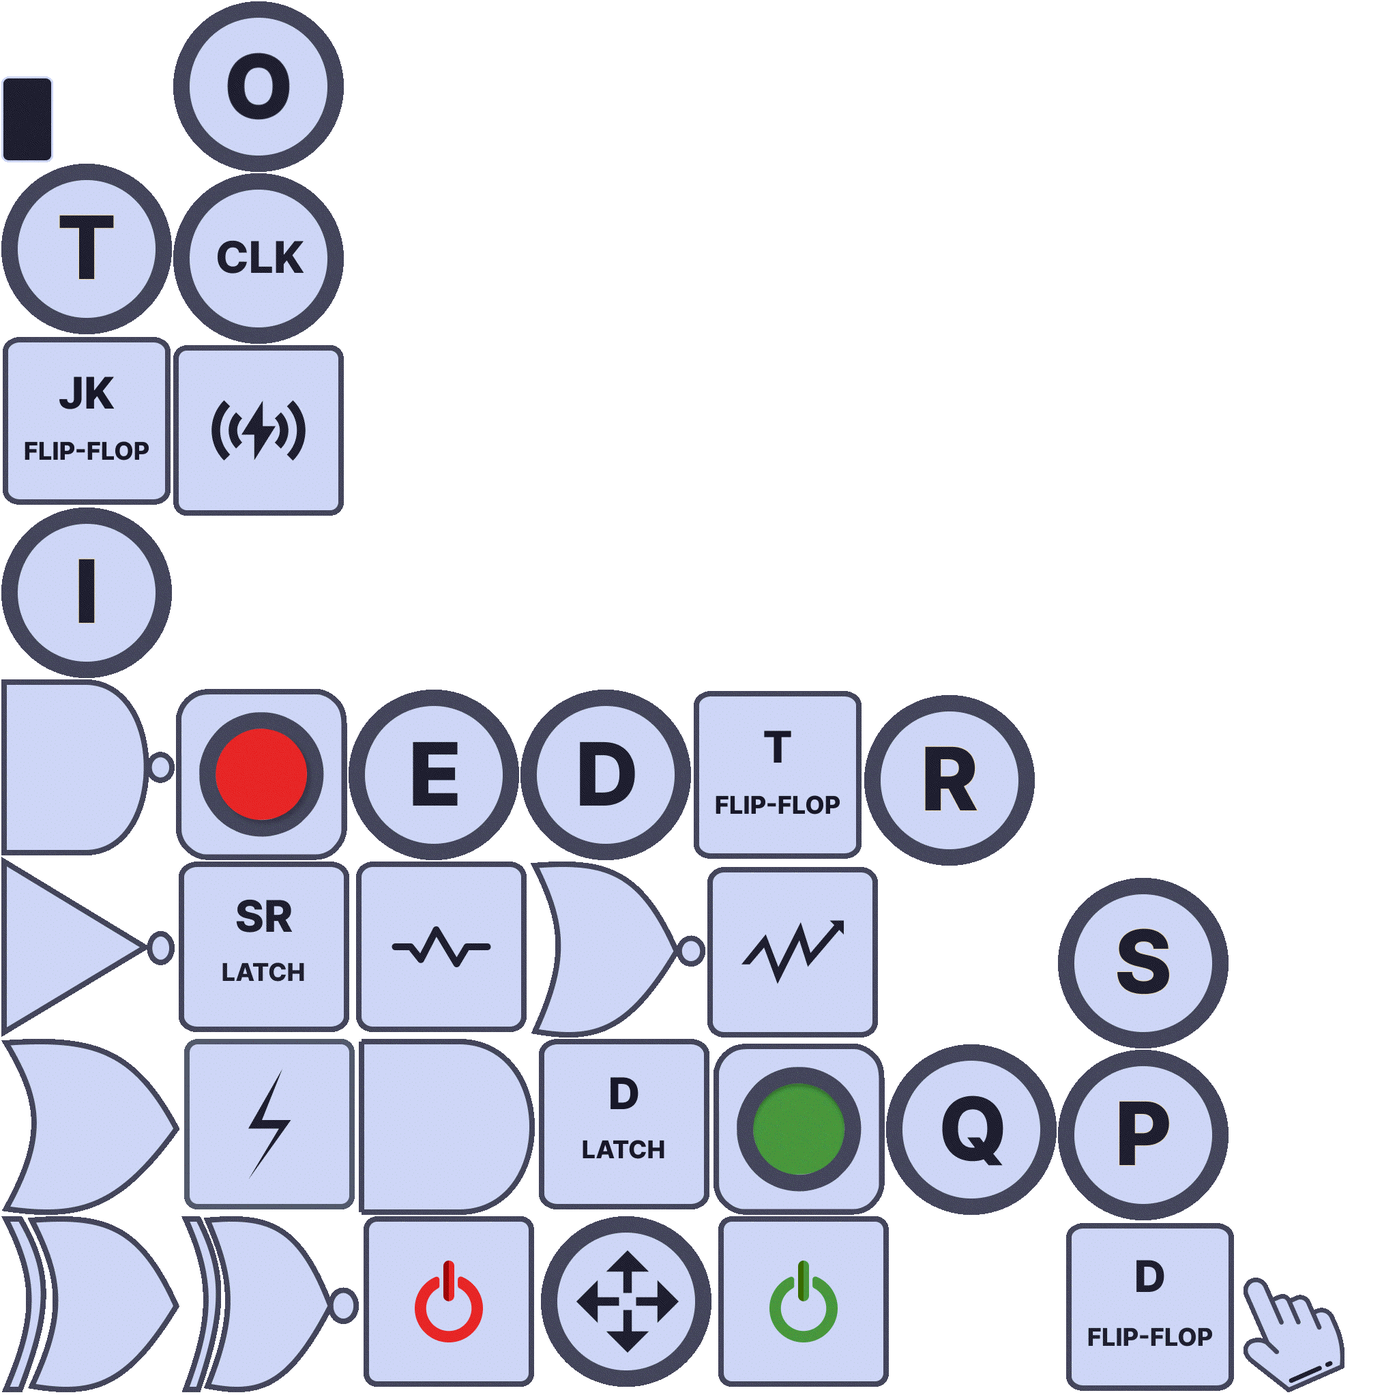
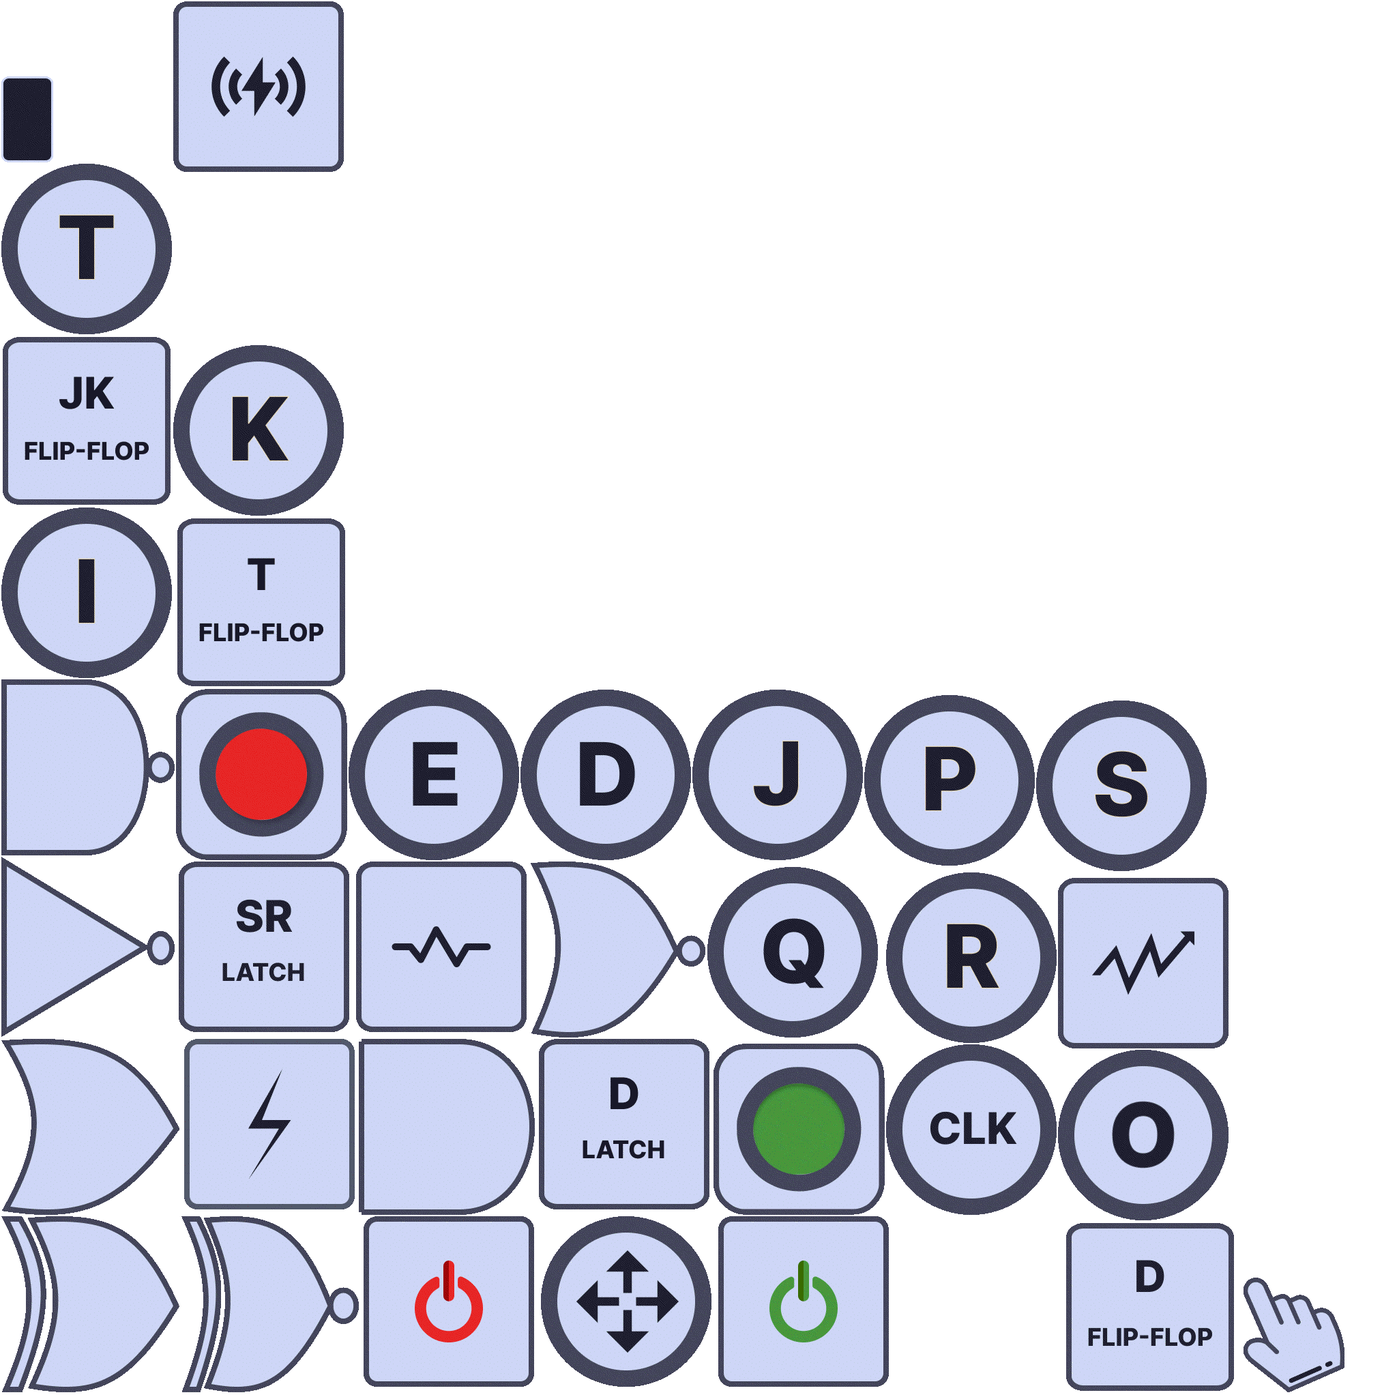
improved UI, added edit text, added jk flipflop

diff --git a/android/src/main/java/org/engine/simulogic/android/circuits/components/flipflops/CJKFlipFlop.kt b/android/src/main/java/org/engine/simulogic/android/circuits/components/flipflops/CJKFlipFlop.kt
@@ -24,7 +24,7 @@ class CJKFlipFlop(x:Float, y:Float, rotationDirection:Int, private val scene: Pl
         this.rotationDirection = rotationDirection
         sprite = Sprite(spriteRegion).apply {
             setOrigin(x , y)
-            setSize(CDefaults.latchWidth, CDefaults.latchHeight)
+            setSize(CDefaults.latchWidth* 1.5f , CDefaults.latchHeight* 1.5f )
             setOriginCenter()
             type = CTypes.JK_FLIP_FLOP
             when(rotationDirection){
@@ -41,13 +41,13 @@ class CJKFlipFlop(x:Float, y:Float, rotationDirection:Int, private val scene: Pl
                     rotation = 0f
                 }
             }
-            setPosition(x - CDefaults.latchWidth / 2f,y - CDefaults.latchHeight / 2f)
+            setPosition(x - CDefaults.latchWidth * 1.5f / 2f,y - CDefaults.latchHeight * 1.5f / 2f)
         }
 
         signals.add(CSignal(x + sprite.width * 0.8125f, y ,CTypes.Q_SIGNAL_OUT,0, scene))
-        signals.add(CSignal(x - sprite.width * 0.8125f, y + CDefaults.gateHeight / 2f - CDefaults.gateHeight * 0.1875f ,CTypes.D_SIGNAL_IN, 1, scene))
-        signals.add(CSignal(x - sprite.width * 0.8125f, y - CDefaults.gateHeight / 2f +  CDefaults.gateHeight * 0.1875f ,CTypes.E_SIGNAL_IN, 2, scene))
-
+        signals.add(CSignal(x - sprite.width * 0.8125f, y + sprite.height/ 2f - sprite.height * 0.1875f ,CTypes.J_SIGNAL_IN, 1, scene))
+        signals.add(CSignal(x - sprite.width * 0.8125f, y - sprite.height / 2f +  sprite.height * 0.1875f ,CTypes.K_SIGNAL_IN, 2, scene))
+        signals.add(CSignal(x - sprite.width * 0.8125f, y ,CTypes.CLK_SIGNAL_IN, 3, scene))
         signals.forEach {
             attachChild(it)
         }
@@ -69,6 +69,9 @@ class CJKFlipFlop(x:Float, y:Float, rotationDirection:Int, private val scene: Pl
             getChildAt(2).getPosition()?.also { outputPosition ->
                 lines.add(CLine(outputPosition.x,outputPosition.y,getPosition().x,outputPosition.y,lineWidth))
             }
+            getChildAt(3).getPosition()?.also { outputPosition ->
+                lines.add(CLine(outputPosition.x,outputPosition.y,getPosition().x,outputPosition.y,lineWidth))
+            }
             lines.forEach {
                 layer.attachChild(it)
             }
@@ -77,12 +80,25 @@ class CJKFlipFlop(x:Float, y:Float, rotationDirection:Int, private val scene: Pl
 
     override fun execute() {
         val outputQ = signals[0]
-        val inputD = signals[1]
-        val inputE = signals[2]
-        val hasEdge = previousEdge != inputE.value
-        if(hasEdge){
-            outputQ.value = inputD.value
-            previousEdge = inputE.value
+        val inputJ = signals[1]
+        val inputK = signals[2]
+        val inputCLK = signals[3]
+        val hasEdge = previousEdge != inputCLK.value
+        if(hasEdge && inputCLK.value == SIGNAL_ACTIVE){
+            when {
+                inputJ.value == SIGNAL_ACTIVE && inputK.value == SIGNAL_INACTIVE -> {
+                    outputQ.value = SIGNAL_ACTIVE
+                }
+                inputJ.value == SIGNAL_INACTIVE && inputK.value == SIGNAL_ACTIVE -> {
+                    outputQ.value = SIGNAL_INACTIVE
+                }
+                inputJ.value == SIGNAL_ACTIVE && inputK.value == SIGNAL_ACTIVE -> {
+                    outputQ.value = if (outputQ.value == SIGNAL_ACTIVE) SIGNAL_INACTIVE else SIGNAL_ACTIVE
+                }
+            }
+            previousEdge = inputCLK.value
+        }else{
+            previousEdge = inputCLK.value
         }
     }
 
@@ -118,8 +134,9 @@ class CJKFlipFlop(x:Float, y:Float, rotationDirection:Int, private val scene: Pl
         when(rotationDirection){
             ROTATE_RIGHT->{
                 signals[0].updatePosition(getPosition().x + sprite.width * 0.8125f, getPosition().y)
-                signals[1].updatePosition(getPosition().x - sprite.width * 0.8125f, getPosition().y + sprite.height / 2f - sprite.height * 0.1875f)
-                signals[2].updatePosition(getPosition().x - sprite.width * 0.8125f, getPosition().y - sprite.height / 2f +  sprite.height * 0.1875f)
+                signals[1].updatePosition(getPosition().x - sprite.width * 0.8125f, getPosition().y + sprite.height / 2f - sprite.height * 0.1f)
+                signals[2].updatePosition(getPosition().x - sprite.width * 0.8125f, getPosition().y - sprite.height / 2f +  sprite.height * 0.1f)
+                signals[3].updatePosition(getPosition().x - sprite.width * 0.8125f, getPosition().y)
                 getChildAt(0).getPosition()?.also { outputPosition ->
                     lines[0].updatePosition(outputPosition.x,outputPosition.y,getPosition().x,getPosition().y)
                 }
@@ -128,13 +145,17 @@ class CJKFlipFlop(x:Float, y:Float, rotationDirection:Int, private val scene: Pl
                 }
                 getChildAt(2).getPosition()?.also { outputPosition ->
                     lines[2].updatePosition(outputPosition.x,outputPosition.y,getPosition().x,outputPosition.y)
+                }
+                getChildAt(3).getPosition()?.also { outputPosition ->
+                    lines[3].updatePosition(outputPosition.x,outputPosition.y,getPosition().x,outputPosition.y)
                 }
             }
 
             ROTATE_LEFT->{
                 signals[0].updatePosition(getPosition().x - sprite.width * 0.8125f, getPosition().y)
-                signals[1].updatePosition(getPosition().x + sprite.width * 0.8125f, getPosition().y + sprite.height / 2f - sprite.height * 0.1875f)
-                signals[2].updatePosition(getPosition().x + sprite.width * 0.8125f, getPosition().y - sprite.height / 2f + sprite.height * 0.1875f)
+                signals[1].updatePosition(getPosition().x + sprite.width * 0.8125f, getPosition().y + sprite.height / 2f - sprite.height * 0.1f)
+                signals[2].updatePosition(getPosition().x + sprite.width * 0.8125f, getPosition().y - sprite.height / 2f + sprite.height * 0.1f)
+                signals[3].updatePosition(getPosition().x + sprite.width * 0.8125f, getPosition().y)
                 getChildAt(0).getPosition()?.also { outputPosition ->
                     lines[0].updatePosition(outputPosition.x,outputPosition.y,getPosition().x,getPosition().y)
                 }
@@ -144,12 +165,16 @@ class CJKFlipFlop(x:Float, y:Float, rotationDirection:Int, private val scene: Pl
                 getChildAt(2).getPosition()?.also { outputPosition ->
                     lines[2].updatePosition(outputPosition.x,outputPosition.y,getPosition().x,outputPosition.y)
                 }
+                getChildAt(3).getPosition()?.also { outputPosition ->
+                    lines[3].updatePosition(outputPosition.x,outputPosition.y,getPosition().x,outputPosition.y)
+                }
             }
 
             ROTATE_TOP->{
                 signals[0].updatePosition(getPosition().x , getPosition().y + sprite.width * 0.8125f)
-                signals[1].updatePosition(getPosition().x + sprite.height / 2f - sprite.height * 0.1875f , getPosition().y - sprite.width * 0.8125f)
-                signals[2].updatePosition(getPosition().x - sprite.height / 2f + sprite.height * 0.1875f , getPosition().y - sprite.width * 0.8125f)
+                signals[1].updatePosition(getPosition().x + sprite.height / 2f - sprite.height * 0.1f , getPosition().y - sprite.width * 0.8125f)
+                signals[2].updatePosition(getPosition().x - sprite.height / 2f + sprite.height * 0.1f , getPosition().y - sprite.width * 0.8125f)
+                signals[3].updatePosition(getPosition().x, getPosition().y - sprite.width * 0.8125f)
                 getChildAt(0).getPosition()?.also { outputPosition ->
                     lines[0].updatePosition(outputPosition.x,outputPosition.y,getPosition().x,getPosition().y)
                 }
@@ -158,13 +183,17 @@ class CJKFlipFlop(x:Float, y:Float, rotationDirection:Int, private val scene: Pl
                 }
                 getChildAt(2).getPosition()?.also { outputPosition ->
                     lines[2].updatePosition(outputPosition.x,outputPosition.y,outputPosition.x,getPosition().y)
+                }
+                getChildAt(3).getPosition()?.also { outputPosition ->
+                    lines[3].updatePosition(outputPosition.x,outputPosition.y,outputPosition.x,getPosition().y)
                 }
             }
 
             ROTATE_BOTTOM->{
                 signals[0].updatePosition(getPosition().x , getPosition().y - sprite.width * 0.8125f)
-                signals[1].updatePosition(getPosition().x + sprite.height / 2f - sprite.height * 0.1875f , getPosition().y + sprite.width * 0.8125f)
-                signals[2].updatePosition(getPosition().x - sprite.height / 2f + sprite.height * 0.1875f , getPosition().y + sprite.width * 0.8125f)
+                signals[1].updatePosition(getPosition().x + sprite.height / 2f - sprite.height * 0.1f , getPosition().y + sprite.width * 0.8125f)
+                signals[2].updatePosition(getPosition().x - sprite.height / 2f + sprite.height * 0.1f , getPosition().y + sprite.width * 0.8125f)
+                signals[3].updatePosition(getPosition().x, getPosition().y + sprite.width * 0.8125f)
                 getChildAt(0).getPosition()?.also { outputPosition ->
                     lines[0].updatePosition(outputPosition.x,outputPosition.y,getPosition().x,getPosition().y)
                 }
@@ -173,6 +202,9 @@ class CJKFlipFlop(x:Float, y:Float, rotationDirection:Int, private val scene: Pl
                 }
                 getChildAt(2).getPosition()?.also { outputPosition ->
                     lines[2].updatePosition(outputPosition.x,outputPosition.y,outputPosition.x,getPosition().y)
+                }
+                getChildAt(3).getPosition()?.also { outputPosition ->
+                    lines[3].updatePosition(outputPosition.x,outputPosition.y,outputPosition.x,getPosition().y)
                 }
             }
         }

diff --git a/android/src/main/java/org/engine/simulogic/android/circuits/logic/ConnectionManager.kt b/android/src/main/java/org/engine/simulogic/android/circuits/logic/ConnectionManager.kt
@@ -20,18 +20,23 @@ class ConnectionManager(
         validationMap[CTypes.SIGNAL_IN] = listOf(CTypes.SIGNAL_OUT, CTypes.Q_SIGNAL_OUT, CTypes.SIGNAL_RANGE_POINT)
         validationMap[CTypes.SIGNAL_OUT] =
             listOf(CTypes.SIGNAL_IN, CTypes.D_SIGNAL_IN, CTypes.E_SIGNAL_IN, CTypes.CLK_SIGNAL_IN, CTypes.T_SIGNAL_IN,
-                CTypes.S_SIGNAL_IN, CTypes.R_SIGNAL_IN)
+                CTypes.S_SIGNAL_IN, CTypes.R_SIGNAL_IN,CTypes.K_SIGNAL_IN,
+                CTypes.J_SIGNAL_IN)
         validationMap[CTypes.E_SIGNAL_IN] = listOf(CTypes.SIGNAL_OUT, CTypes.Q_SIGNAL_OUT)
         validationMap[CTypes.D_SIGNAL_IN] = listOf(CTypes.SIGNAL_OUT, CTypes.Q_SIGNAL_OUT)
         validationMap[CTypes.CLK_SIGNAL_IN] = listOf(CTypes.SIGNAL_OUT, CTypes.Q_SIGNAL_OUT)
         validationMap[CTypes.T_SIGNAL_IN] = listOf(CTypes.SIGNAL_OUT, CTypes.Q_SIGNAL_OUT)
         validationMap[CTypes.S_SIGNAL_IN] = listOf(CTypes.SIGNAL_OUT, CTypes.Q_SIGNAL_OUT)
         validationMap[CTypes.R_SIGNAL_IN] = listOf(CTypes.SIGNAL_OUT, CTypes.Q_SIGNAL_OUT)
+        validationMap[CTypes.J_SIGNAL_IN] = listOf(CTypes.SIGNAL_OUT, CTypes.Q_SIGNAL_OUT)
+        validationMap[CTypes.K_SIGNAL_IN] = listOf(CTypes.SIGNAL_OUT, CTypes.Q_SIGNAL_OUT)
         validationMap[CTypes.Q_SIGNAL_OUT] =
             listOf(CTypes.SIGNAL_IN, CTypes.D_SIGNAL_IN, CTypes.E_SIGNAL_IN, CTypes.T_SIGNAL_IN,
-                CTypes.CLK_SIGNAL_IN, CTypes.S_SIGNAL_IN, CTypes.R_SIGNAL_IN)
+                CTypes.CLK_SIGNAL_IN, CTypes.S_SIGNAL_IN, CTypes.R_SIGNAL_IN,CTypes.K_SIGNAL_IN,
+                CTypes.J_SIGNAL_IN)
         validationMap[CTypes.SIGNAL_RANGE_POINT] = listOf(CTypes.SIGNAL_IN, CTypes.E_SIGNAL_IN, CTypes.D_SIGNAL_IN,
-            CTypes.T_SIGNAL_IN, CTypes.CLK_SIGNAL_IN, CTypes.S_SIGNAL_IN, CTypes.R_SIGNAL_IN)
+            CTypes.T_SIGNAL_IN, CTypes.CLK_SIGNAL_IN, CTypes.S_SIGNAL_IN, CTypes.R_SIGNAL_IN,CTypes.K_SIGNAL_IN,
+            CTypes.J_SIGNAL_IN)
     }
 
     fun resolveConnection() {

diff --git a/android/src/main/java/org/engine/simulogic/android/views/dialogs/LabelDialog.kt b/android/src/main/java/org/engine/simulogic/android/views/dialogs/LabelDialog.kt
@@ -8,6 +8,7 @@ import android.view.LayoutInflater
 import android.view.View
 import android.view.ViewGroup
 import android.widget.ArrayAdapter
+import android.widget.TextView
 import androidx.appcompat.widget.AppCompatButton
 import androidx.appcompat.widget.AppCompatImageButton
 import androidx.appcompat.widget.ListPopupWindow
@@ -18,7 +19,7 @@ import org.engine.simulogic.R
 import org.engine.simulogic.android.views.interfaces.IDialogLabelListener
 
 
-class LabelDialog(context: Context, private val listener:IDialogLabelListener) : Dialog(context) {
+class LabelDialog(context: Context, private val listener:IDialogLabelListener,private val title:String = "Label") : Dialog(context) {
 
 
     class CustomFontAdapter(context: Context,items:Array<String>):ArrayAdapter<String>(context, 0, items){
@@ -37,6 +38,7 @@ class LabelDialog(context: Context, private val listener:IDialogLabelListener) :
         val view = layoutInflater.inflate(R.layout.dialog_label_name,null)
         val cancel = view.findViewById<AppCompatButton>(R.id.cancel)
         val save = view.findViewById<AppCompatButton>(R.id.save)
+        view.findViewById<MaterialTextView>(R.id.title).apply { text = title }
         val editTextFileName = view.findViewById<TextInputEditText>(R.id.fileName)
         val fontDropDownEditText = view.findViewById<TextInputEditText>(R.id.fontDropDown)
         val fontPopupButton = view.findViewById<AppCompatImageButton>(R.id.showPopup)

diff --git a/android/src/main/java/org/engine/simulogic/android/circuits/logic/ComponentManager.kt b/android/src/main/java/org/engine/simulogic/android/circuits/logic/ComponentManager.kt
@@ -34,6 +34,7 @@ import org.engine.simulogic.android.circuits.logic.events.EventCopyCommand
 import org.engine.simulogic.android.circuits.logic.events.EventCutCommand
 import org.engine.simulogic.android.circuits.logic.events.EventDataBusCommand
 import org.engine.simulogic.android.circuits.logic.events.EventDeleteCommand
+import org.engine.simulogic.android.circuits.logic.events.EventEditTextCommand
 import org.engine.simulogic.android.circuits.logic.events.EventFipFlopCommand
 import org.engine.simulogic.android.circuits.logic.events.EventInsertGroupCommand
 import org.engine.simulogic.android.circuits.logic.events.EventJKFlipFlopCommand
@@ -308,6 +309,11 @@ class ComponentManager(private val projectOptions: ProjectOptions,private val fo
             }
         }
     }
+
+    fun editCLabel(text:String,fontSize: Int){
+        eventBridge.insertCommand(EventEditTextCommand(text, fontSize.toFloat(), gestureListener))
+    }
+
     fun insertCLabel(text:String, fontSize:Int) {
         gestureListener.rectPointer.getPosition().also { position ->
             snapAlign.getSnapCoordinates(position).also { coordinates ->

diff --git a/android/src/main/java/org/engine/simulogic/android/circuits/components/other/CLabel.kt b/android/src/main/java/org/engine/simulogic/android/circuits/components/other/CLabel.kt
@@ -34,8 +34,8 @@ open class CLabel(private val font:BitmapFont, var fontSize:Float, var text:Stri
     override fun draw(spriteBatch: SpriteBatch) {
         font.color = color
         font.data.setScale(fontSize / CDefaults.MAX_FONT_RESOLUTION)
-        layout.setText(font,text)
         if(text.isNotEmpty()) {
+            layout.setText(font,text)
             if(selected) {
                 sprite.draw(spriteBatch)
             }
@@ -57,6 +57,14 @@ open class CLabel(private val font:BitmapFont, var fontSize:Float, var text:Stri
         sprite.setOriginCenter()
         sprite.color = CDefaults.LABEL_SELECTED_COLOR
         sprite.setPosition(position.x - sprite.width /2f,position.y - sprite.height)
+        // to make things easier self detach or attach if the anchor is available on delete, undo or redo
+        anchor?.also {
+            if(it.anchorEntity.isRemoved){
+                detachSelf()
+            }else if(!it.anchorEntity.isRemoved && isRemoved){
+                attachSelf()
+            }
+        }
     }
 
     override fun attachSelf() {

diff --git a/android/src/main/java/org/engine/simulogic/android/circuits/logic/events/EventEditTextCommand.kt b/android/src/main/java/org/engine/simulogic/android/circuits/logic/events/EventEditTextCommand.kt
@@ -1,0 +1,23 @@
+package org.engine.simulogic.android.circuits.logic.events
+import org.engine.simulogic.android.circuits.components.other.CLabel
+import org.engine.simulogic.android.circuits.tools.Command
+import org.engine.simulogic.android.events.MotionGestureListener
+
+class EventEditTextCommand (private val text: String,
+                            private val fontSize: Float,
+                            private val gestureListener: MotionGestureListener) : Command(){
+
+    override fun execute() {
+
+        gestureListener.collisionDetector.also{collisionDetector ->
+            collisionDetector.selectedItems.forEach { item ->
+                if(item.subject is CLabel){
+                    item.subject.text = text
+                    item.subject.fontSize = fontSize
+                }
+            }
+            collisionDetector.reset()
+        }
+       // TODO: add this to command history
+    }
+}

diff --git a/android/src/main/java/org/engine/simulogic/android/views/SimulationFragment.kt b/android/src/main/java/org/engine/simulogic/android/views/SimulationFragment.kt
@@ -141,6 +141,19 @@ class SimulationFragment : AndroidFragmentApplication() {
                         simulationLoop.componentManager.rotateRight()
                     }
 
+                    "EditText"->{
+                        LabelDialog(requireContext(), object : IDialogLabelListener {
+                            override fun onCompleted(text: String, fontSize:Int) {
+                                simulationLoop.componentManager.editCLabel(text,fontSize)
+                            }
+
+                            override fun onCancelled() {
+
+                            }
+
+                        },"Edit Label").show()
+                    }
+
                     "A-Label"->{
                         LabelAnchorDialog(requireContext(), object : IDialogLabelAnchorListener {
                             override fun onCompleted(text: String, fontSize:Int,alignment:Int) {

diff --git a/android/src/main/java/org/engine/simulogic/android/views/ComponentBottomSheet.kt b/android/src/main/java/org/engine/simulogic/android/views/ComponentBottomSheet.kt
@@ -125,7 +125,7 @@ class ComponentBottomSheet(private val listener: IComponentAdapterListener? = nu
         memoryAdapter.insert(D_FLIP_FLOP_COMPONENT, R.drawable.d_flip_flop)
         memoryAdapter.insert(T_FLIP_FLOP_COMPONENT, R.drawable.t_flip_flop,isPremium = true)
         memoryAdapter.showPremiumIndicator = !isPremiumUser
-       /* memoryAdapter.insert(JK_FLIP_FLOP_COMPONENT, R.drawable.jk_flip_flop)*/
+        memoryAdapter.insert(JK_FLIP_FLOP_COMPONENT, R.drawable.jk_flip_flop, isPremium = true)
         val generalAdapter = ComponentViewAdapter()
         generalAdapter.insert(POWER_ON_COMPONENT, R.drawable.power_on)
         generalAdapter.insert(POWER_OFF_COMPONENT, R.drawable.power_off)

diff --git a/android/src/main/java/org/engine/simulogic/android/circuits/components/gates/CSignal.kt b/android/src/main/java/org/engine/simulogic/android/circuits/components/gates/CSignal.kt
@@ -23,6 +23,8 @@ open class CSignal(x: Float, y: Float,  type: CTypes, val signalIndex: Int, priv
             CTypes.S_SIGNAL_IN -> textureAtlas.findRegion("S-INPUT")
             CTypes.R_SIGNAL_IN -> textureAtlas.findRegion("R-INPUT")
             CTypes.T_SIGNAL_IN -> textureAtlas.findRegion("T-INPUT")
+            CTypes.K_SIGNAL_IN -> textureAtlas.findRegion("K-INPUT")
+            CTypes.J_SIGNAL_IN -> textureAtlas.findRegion("J-INPUT")
             CTypes.CLK_SIGNAL_IN ->textureAtlas.findRegion("CLK-INPUT")
             CTypes.SIGNAL_RANGE_POINT->textureAtlas.findRegion("MOVE-INPUT")
             else -> textureAtlas.findRegion("INPUT")

diff --git a/android/src/main/java/org/engine/simulogic/android/SimulationActivity.kt b/android/src/main/java/org/engine/simulogic/android/SimulationActivity.kt
@@ -223,6 +223,7 @@ class SimulationActivity : AppCompatActivity(), AndroidFragmentApplication.Callb
             insert("Connect4", "Connect", true, R.drawable.connect_4_node)
             insert("Connect6", "Connect", true, R.drawable.connect_6_node)
             insert("Rotate", "Rotate", false, R.drawable.rotate_right)
+            insert("EditText", "Edit-Text", false, R.drawable.text_edit)
             insert("A-Label", "A-Label", false, R.drawable.text_anchor,true)
             insert("Group", "Group", false, R.drawable.group)
             insert("UnGroup", "UnGroup", false, R.drawable.ungroup)

diff --git a/android/src/main/java/org/engine/simulogic/android/circuits/components/lines/LineMarker.kt b/android/src/main/java/org/engine/simulogic/android/circuits/components/lines/LineMarker.kt
@@ -432,8 +432,6 @@ class LineMarker(
         previousFromPosition.set(from.value.getPosition())
         previousToPosition.set(to.value.getPosition())
         snapAlignOriginPoints()
-       /* snapAlignOriginPoints()
-
         //snap align body
         var index = 1
         while (index < signals.size - 2) {
@@ -470,7 +468,7 @@ class LineMarker(
                 }
             }
             index++
-        }*/
+        }
 
         signals.forEach {
             it.snapAlignOriginPoints = false

diff --git a/android/src/main/java/org/engine/simulogic/android/circuits/components/other/CPoint.kt b/android/src/main/java/org/engine/simulogic/android/circuits/components/other/CPoint.kt
@@ -20,7 +20,7 @@ class CPoint(x:Float, y:Float, rotationDirection:Int, private val scene: PlayGro
 
         val textureAtlas = scene.assetManager.get("${EnvironmentTheme.name}.atlas", TextureAtlas::class.java)
         val spriteRegion = textureAtlas.findRegion("POINT")
-        type = CTypes.NOT
+        type = CTypes.POINT
         this.rotationDirection = rotationDirection
         sprite = Sprite(spriteRegion).apply {
             setOrigin(x , y)
